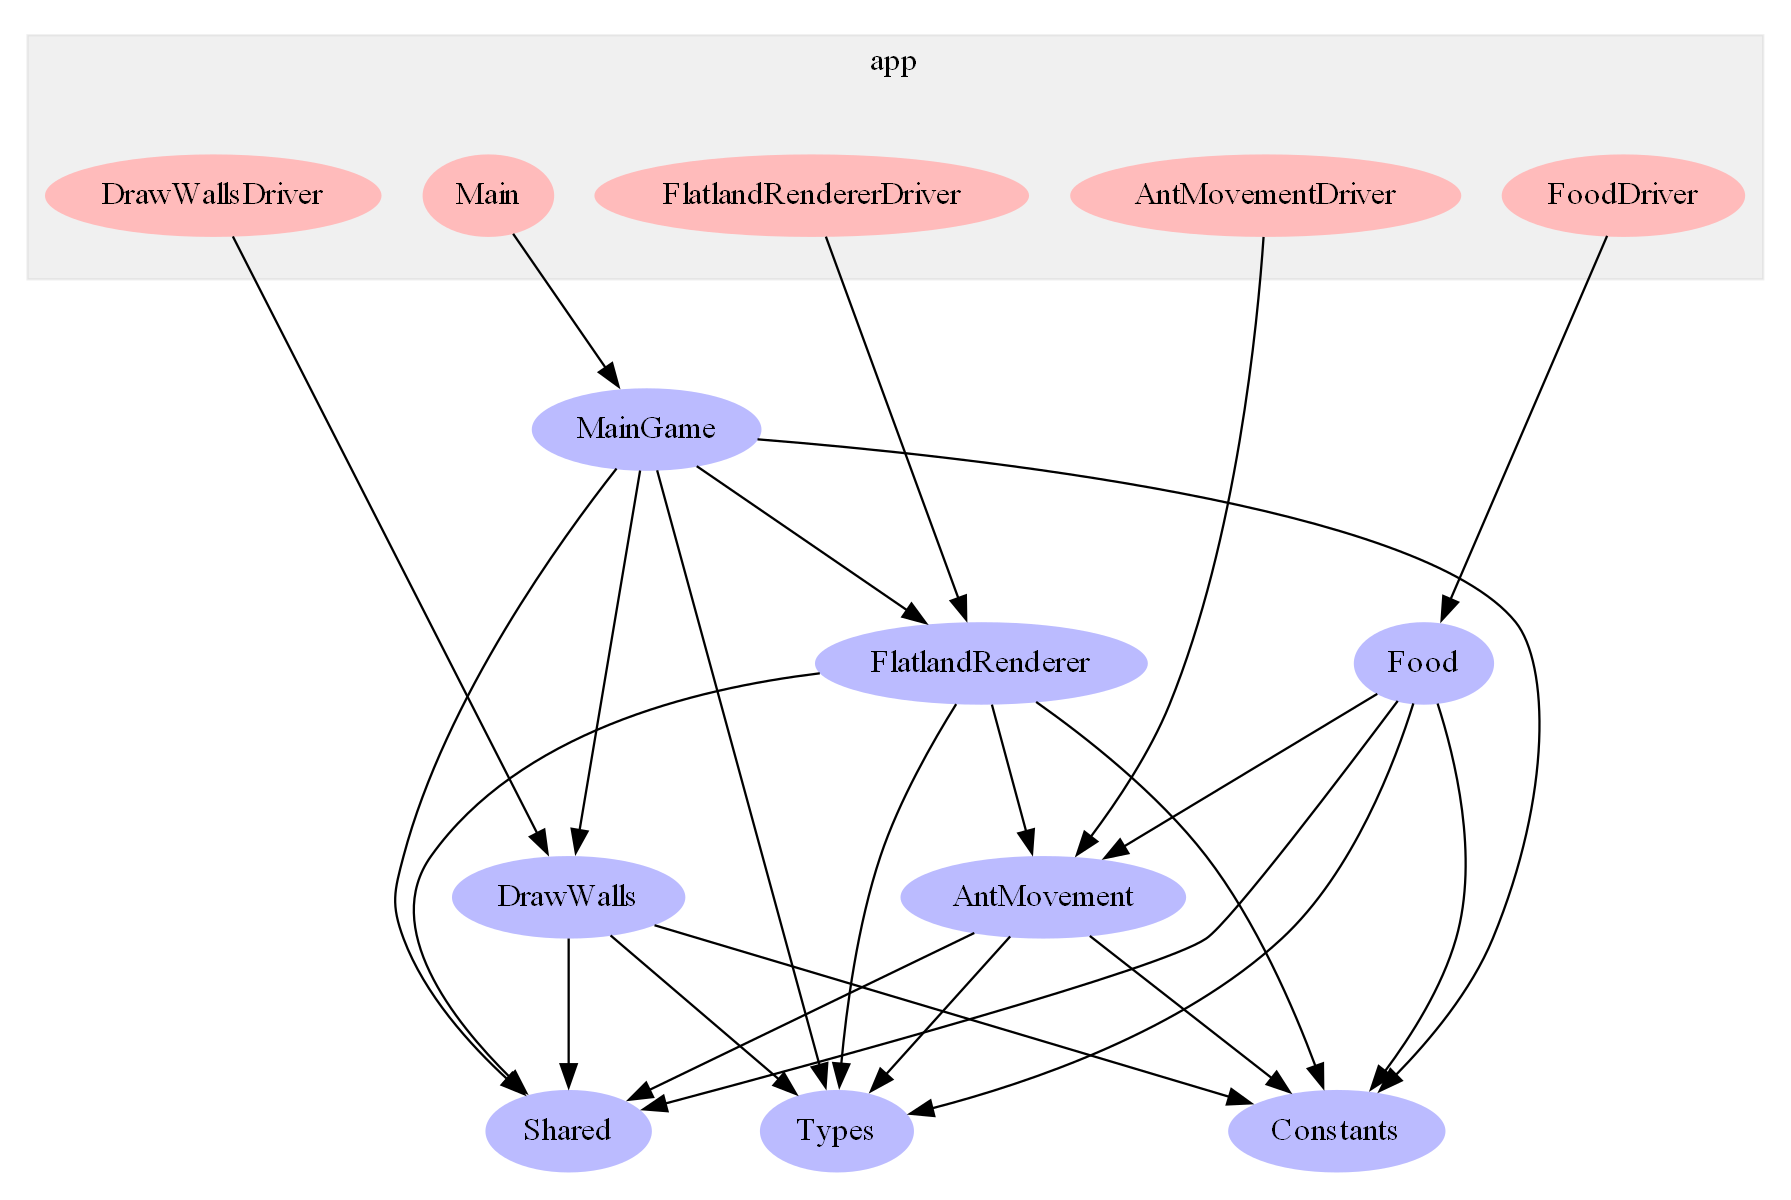
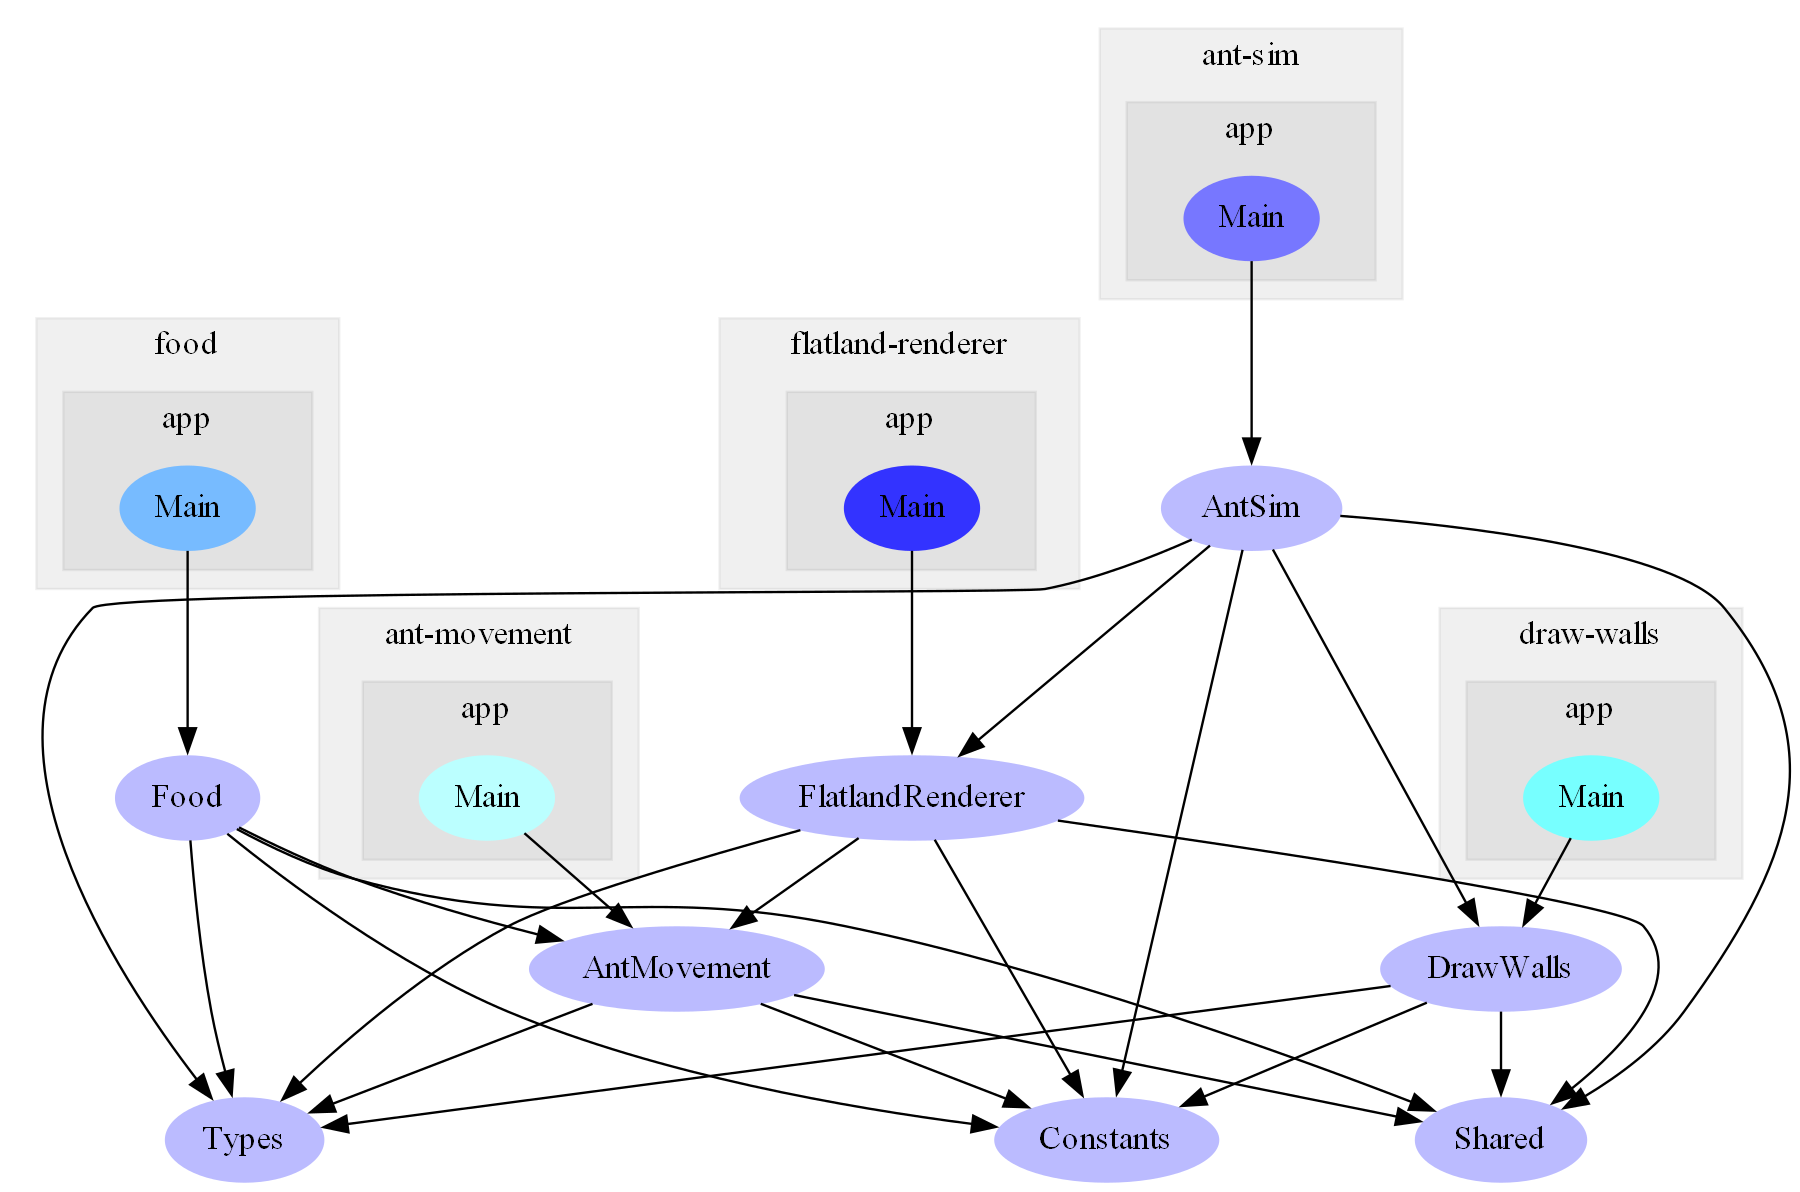
Huge change to project structure. Using cabal.project. Upgraded to GHC 9.8.2. Enabled semanticTokens in the Haskell plugin for better syntax highlighting. Made sure multi-components is being used by HLS. Seems to be working atm.

diff --git a/README.md b/README.md
@@ -9,7 +9,7 @@ Ant simulation in Haskell.
 git clone https://github.com/OlegAlexander/haskell-ant-sim.git
 cd haskell-ant-sim
 cabal update
-cabal run main
+cabal run ant-sim
 ```
 
 # Controls
